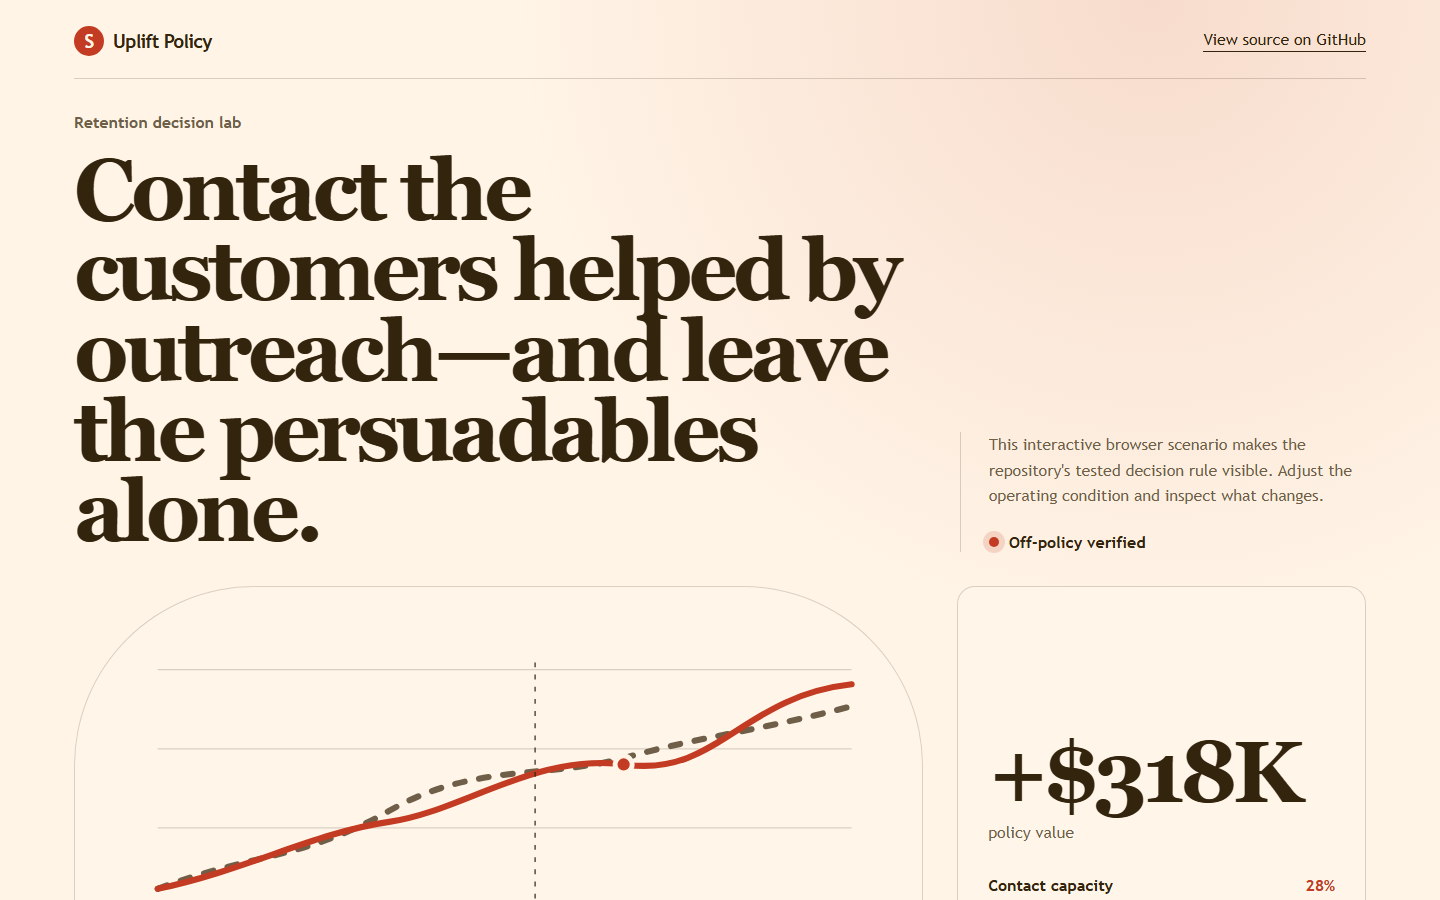
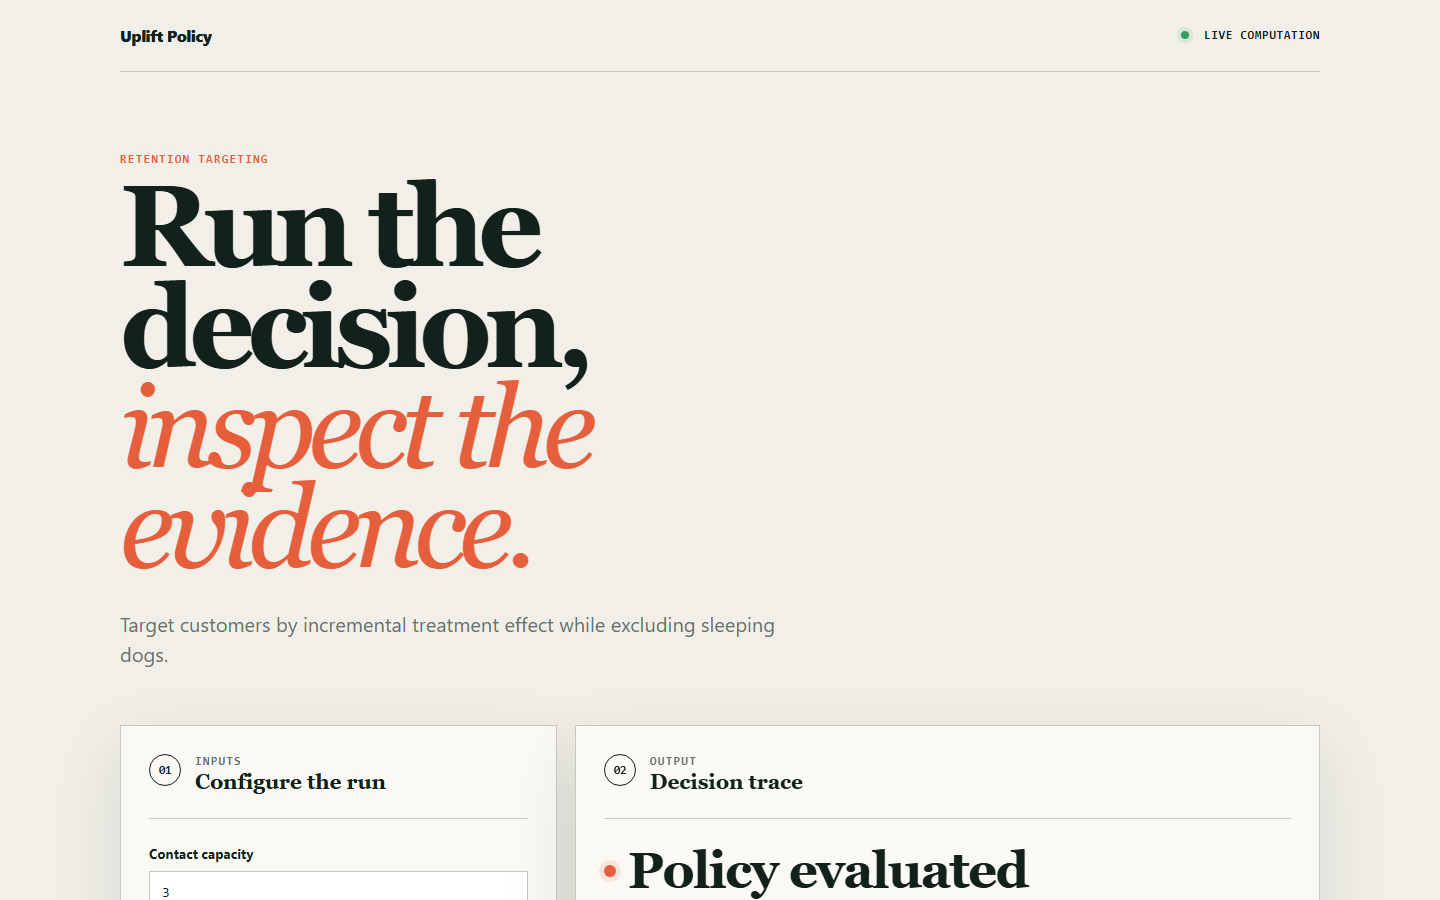
docs: show working deployed application

diff --git a/README.md b/README.md
@@ -6,9 +6,9 @@
 
 [![CI and deployment](https://github.com/SlateGitOrg/upliftpolicy/actions/workflows/ci.yml/badge.svg?branch=main)](https://github.com/SlateGitOrg/upliftpolicy/actions/workflows/ci.yml)
 
-[Open the interactive Uplift Policy demo](https://slategitorg.github.io/upliftpolicy/)
+[Open the working Uplift Policy application](https://slategitorg.github.io/upliftpolicy/)
 
-The deployed interface uses a deterministic offline scenario to make the repository's tested decision rule visible without external services or private data.
+This deployed application runs the project's decision workflow in the browser. Change the inputs, run the analysis, and inspect the computed metrics and decision trace.
 
 ### Desktop
 
